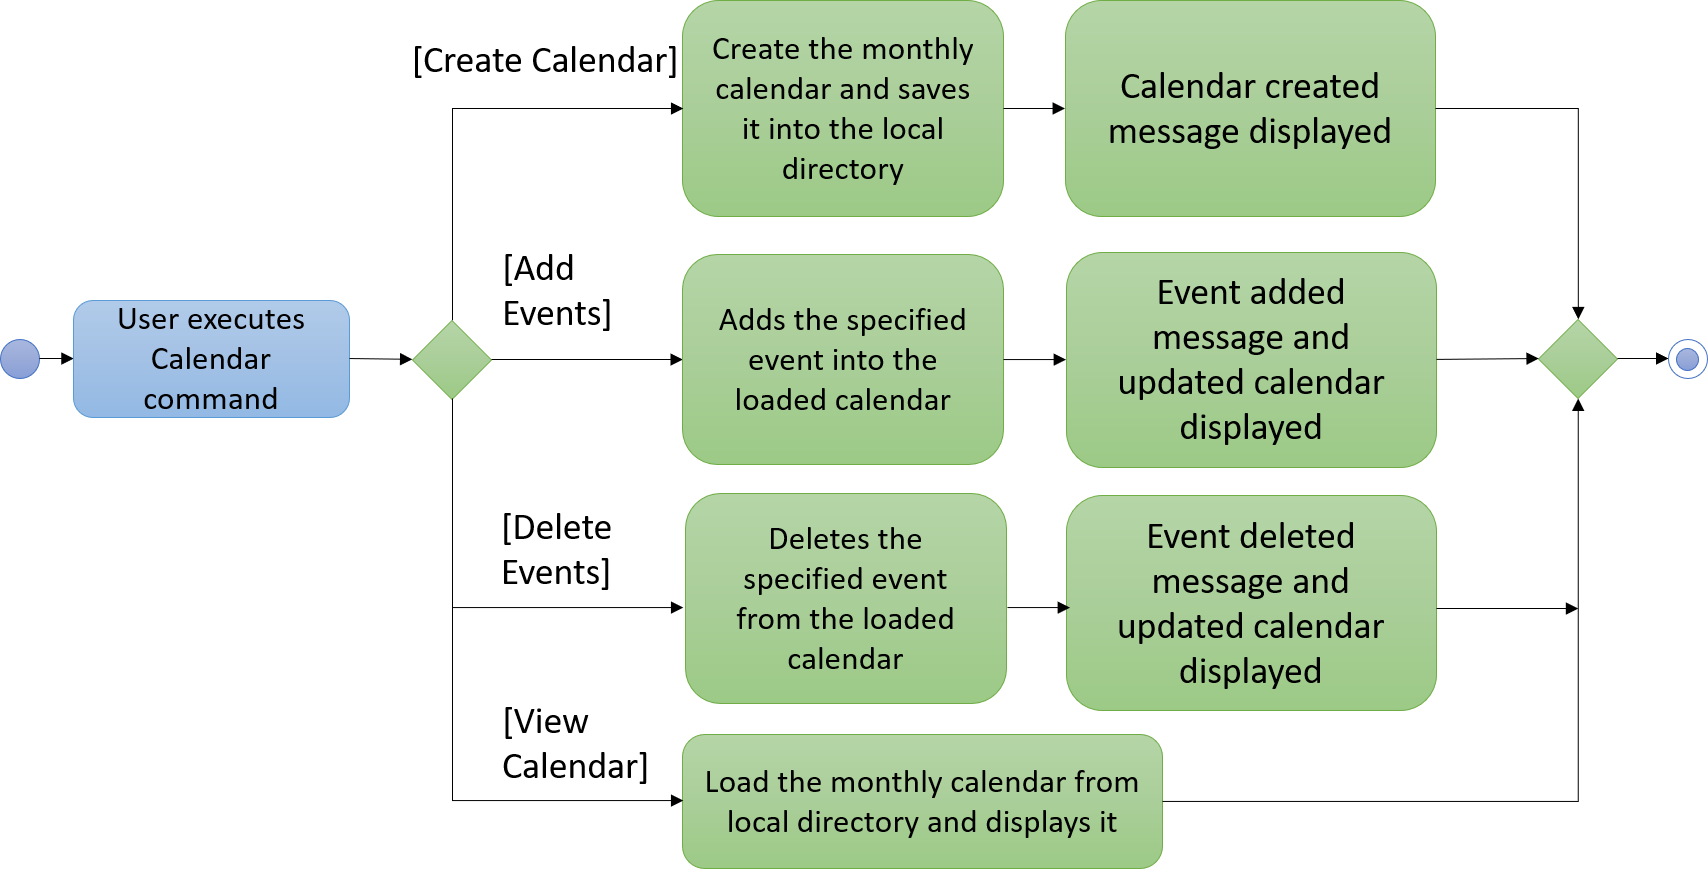
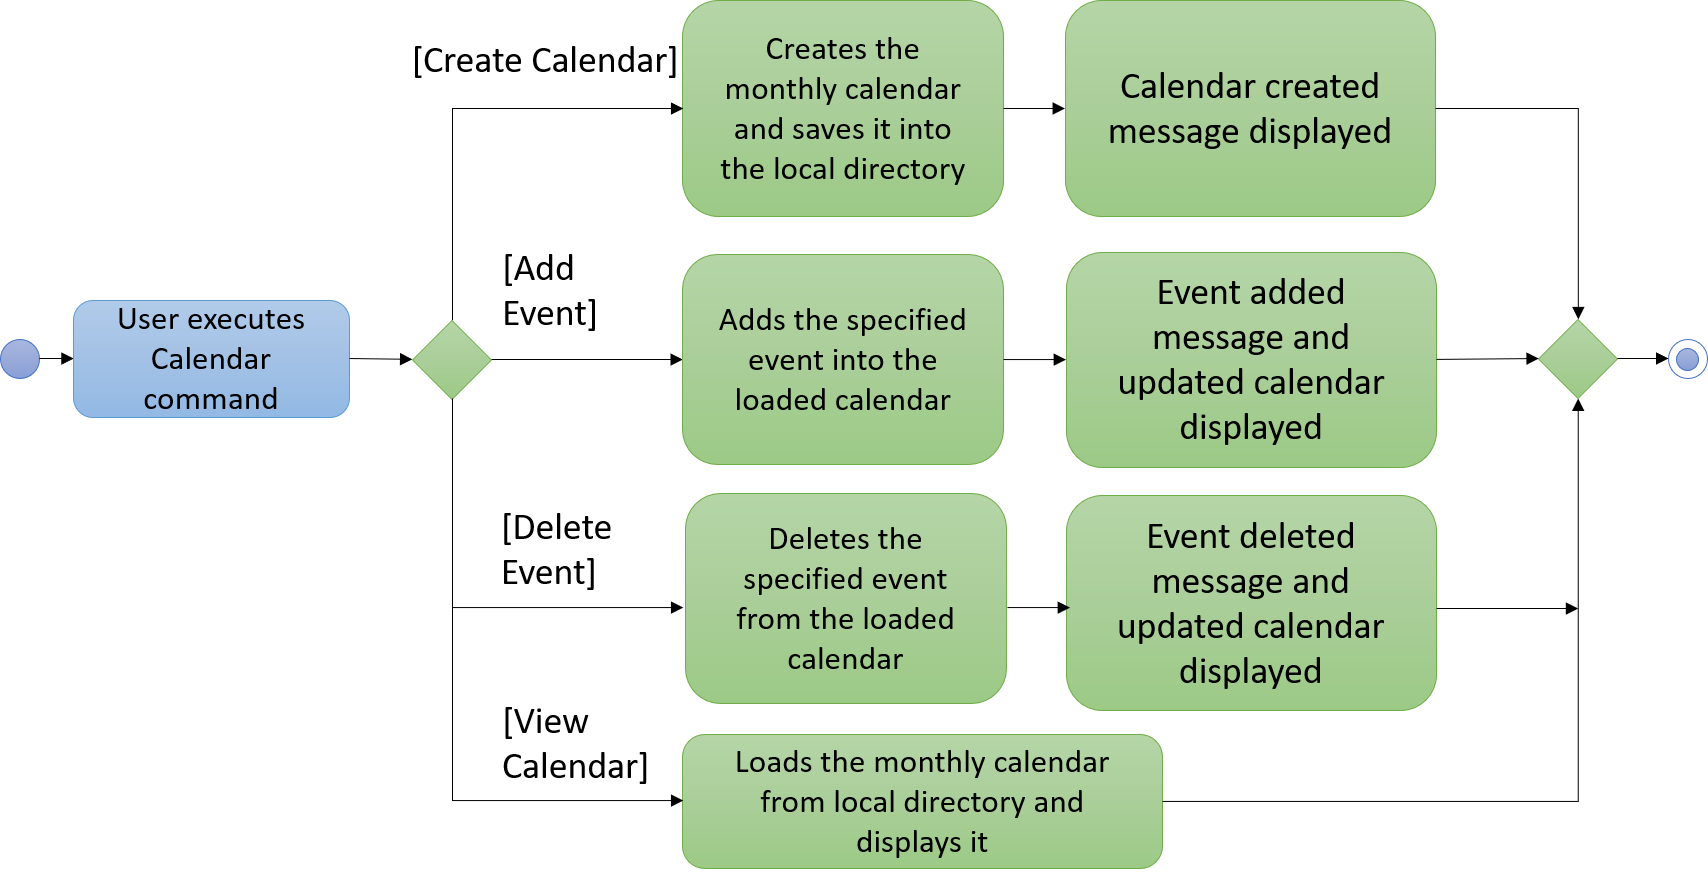
Rebuild pages at f299dc9918a7c7d87d2a5b9993f9ece48c3a12c6

diff --git a/team/gilgameshtc.html b/team/gilgameshtc.html
@@ -15,14 +15,14 @@ requirement for the module CS2103T - Software Engineering, offered in the Nation
 </div>
 <div class="paragraph">
 <p><strong>About Hallper:</strong> Hallper is a desktop application providing administrative convenience. It is catered to the Junior Common Room Committee (JCRC)
-of the halls of NUS, whose main responsibility is to organise and manage all student related activities in hall and look after the welfare of hall residents.
-Users interacts with Hallper using a Command Line Interface (CLI), whilst a Graphic User Interface (GUI) implemented with JavaFX displays the relevant information to the user. Hallper is written
+of the Halls of NUS, whose main responsibility is to organise and manage all student related activities in hall and look out for the welfare of the residents.
+Users interact with Hallper using a Command Line Interface (CLI), whilst a Graphic User Interface (GUI) implemented with JavaFX displays the relevant information to the user. Hallper is written
 in Java and contains approximately 60k lines of code (LoC). Integrated within Hallper is a range of features such as calendar, email and budgeting. Besides that, features such as erase, search and clear from the existing AddressBook Level 4 application
 have been enhanced.</p>
 </div>
 <div class="paragraph">
-<p><strong>My role and contributions:</strong> My contribution to the project is the implementation of the calendar feature and all its relevant commands. The commands that facilitate the calendar feature includes creating calendars, adding events, deleting events and viewing calendars.
-My role in this project is to make sure that the milestones we set collectively as a team are met on time. This includes reviewing the codes of my team members and doing acceptance testing (making sure the feature solves the problem it claims to solve).</p>
+<p><strong>My role and contributions:</strong> My contribution to the project is the implementation of the calendar feature and all its relevant commands. The commands that facilitate the calendar feature include creating calendars, adding events, deleting events and viewing calendars.
+My role in this project is to make sure that the milestones we set collectively are met on time. This includes reviewing the codes of my team members and doing acceptance testing (making sure the feature solves the problem it claims to solve).</p>
 </div>
 </div>
 </div>
@@ -30,7 +30,7 @@ My role in this project is to make sure that the milestones we set collectively 
 <h2 id="2-summary-of-contributions"><a class="link" href="#2-summary-of-contributions">2. Summary of contributions</a></h2>
 <div class="sectionbody">
 <div class="paragraph">
-<p>This section lists the major and minor enhancements I have contributed to the project, Hallper as well as miscellaneous contributions in other aspects of the project.</p>
+<p>This section lists the major and minor enhancements I have contributed to the project, Hallper, as well as miscellaneous contributions in other aspects of the project.</p>
 </div>
 <div class="paragraph">
 <p>I implemented the calendar feature with external libraries,  <a href="https://github.com/ical4j/ical4j">iCal4j</a> and <a href="http://jfxtras.org/">JFxtras</a>.</p>
@@ -48,7 +48,7 @@ My role in this project is to make sure that the milestones we set collectively 
 <p>Justification: This feature improves the product significantly because a JCRC member needs to keep track of the monthly events happening in hall, and a calendar is just the right tool. Being able to keep track of hall events in a calendar also allows the JCRC member to mitigate event date clashes with ease.</p>
 </li>
 <li>
-<p>Highlights: Calendars are created in the file format <code>.ics</code>. This file format is chosen because it is compliant with the RFC 5545 format, which is recognised in the industry. Albeit the implementation of this feature requires an in-depth understanding of the external library <a href="https://github.com/ical4j/ical4j">iCal4j</a>. This is not an issue as the library is widely used and well documented, new developers can easily pick up and extend the current features.</p>
+<p>Highlights: Calendars are created in the file format <code>.ics</code>. This file format is chosen because it is compliant with the RFC 5545 format, which is recognised in the industry. Albeit the implementation of this feature requires an in-depth understanding of the external library <a href="https://github.com/ical4j/ical4j">iCal4j</a>, this is not an issue as the library is widely used and well documented so new developers can easily pick up and extend the current features.</p>
 </li>
 </ul>
 </div>
@@ -61,7 +61,7 @@ My role in this project is to make sure that the milestones we set collectively 
 <p>What it does: This feature allows the user (JCRC member) to view monthly calendars in Hallper by displaying the calendar on the GUI.</p>
 </li>
 <li>
-<p>Justification: This feature improves the user experience as the user can observe changes made on the calendar dynamically. Besides that, the calendar is displayed alongside the command line interface (CLI), eliminating the need to switch between windows. In other words, the user can create, modify and view calendars in Hallper just by typing the keyboard.</p>
+<p>Justification: This feature improves the user experience as the user can observe changes made on the calendar dynamically. Besides that, the calendar is displayed alongside the command line interface (CLI), eliminating the need to switch between windows. In other words, the user can create, modify and view calendars in Hallper just by typing on the keyboard.</p>
 </li>
 <li>
 <p>Highlights: The implementation of this feature requires an in-depth understanding of Java FXML API, JavaFX, XML, <a href="http://jfxtras.org/">JFxtras</a> and how they work together. It was challenging as it required changes to existing commands and interaction with the main window had to be correctly handled.</p>
@@ -307,7 +307,7 @@ It implements the following commands:</p>
 <div class="ulist">
 <ul>
 <li>
-<p><code>create_calendar</code>&#8201;&#8212;&#8201;Creates a monthly calendar and store it in local memory.</p>
+<p><code>create_calendar</code>&#8201;&#8212;&#8201;Creates a monthly calendar and stores it in local memory.</p>
 </li>
 <li>
 <p><code>add_all_day_event</code>&#8201;&#8212;&#8201;Adds an all day event into the monthly calendar specified.</p>
@@ -491,7 +491,7 @@ This saves the updated calendar back to the local directory.</p>
 </div>
 </div>
 <div class="paragraph">
-<p><em>Figure 4.3.1.6: Activity diagram for budget command</em></p>
+<p><em>Figure 4.3.1.6: Activity diagram for calendar commands</em></p>
 </div>
 </div>
 </div>
@@ -524,4 +524,4 @@ The library is widely used and easy to understand so any new developer can easil
 </div>
 </div>
 </div>
-</div></div><div id="footer"><div class="container"><div id="footer-text">Last updated 2018-11-12 11:43:34 UTC</div></div></div></body></html>
+</div></div><div id="footer"><div class="container"><div id="footer-text">Last updated 2018-11-12 12:06:13 UTC</div></div></div></body></html>

diff --git a/DeveloperGuide.html b/DeveloperGuide.html
@@ -1015,7 +1015,7 @@ It implements the following commands:</p>
 <div class="ulist">
 <ul>
 <li>
-<p><code>create_calendar</code>&#8201;&#8212;&#8201;Creates a monthly calendar and store it in local memory.</p>
+<p><code>create_calendar</code>&#8201;&#8212;&#8201;Creates a monthly calendar and stores it in local memory.</p>
 </li>
 <li>
 <p><code>add_all_day_event</code>&#8201;&#8212;&#8201;Adds an all day event into the monthly calendar specified.</p>
@@ -1392,7 +1392,7 @@ This loads the calendar from the specified local directory.</p>
 </div>
 </div>
 <div class="paragraph">
-<p><em>Figure 4.3.1.6: Activity diagram for budget command</em></p>
+<p><em>Figure 4.3.1.6: Activity diagram for calendar commands</em></p>
 </div>
 </div>
 </div>
@@ -5366,4 +5366,4 @@ Expected: Image not copied. Invalid image error message displayed.</p>
 </div>
 </div>
 </div>
-</div></div><div id="footer"><div class="container"><div id="footer-text">Last updated 2018-11-12 11:43:34 UTC</div></div></div></body></html>
+</div></div><div id="footer"><div class="container"><div id="footer-text">Last updated 2018-11-12 12:06:13 UTC</div></div></div></body></html>

diff --git a/team/team.html b/team/team.html
@@ -404,4 +404,4 @@ If the <code>currentStatePointer</code> is at index <code>addressBookStateList.s
 <p><em>{Optionally, you may include other projects in your portfolio.}</em></p>
 </div>
 </div>
-</div></div><div id="footer"><div class="container"><div id="footer-text">Last updated 2018-11-12 11:43:34 UTC</div></div></div></body></html>
+</div></div><div id="footer"><div class="container"><div id="footer-text">Last updated 2018-11-12 12:06:13 UTC</div></div></div></body></html>

diff --git a/team/johndoe.html b/team/johndoe.html
@@ -368,4 +368,4 @@ of parsing large XML files.</p>
 <p><em>{Optionally, you may include other projects in your portfolio.}</em></p>
 </div>
 </div>
-</div></div><div id="footer"><div class="container"><div id="footer-text">Last updated 2018-11-12 11:43:34 UTC</div></div></div></body></html>
+</div></div><div id="footer"><div class="container"><div id="footer-text">Last updated 2018-11-12 12:06:13 UTC</div></div></div></body></html>

diff --git a/ContactUs.html b/ContactUs.html
@@ -12,4 +12,4 @@
 <p><strong>Email us</strong> : You can also reach us at <code>damith [at] comp.nus.edu.sg</code></p>
 </li>
 </ul>
-</div></div><div id="footer"><div class="container"><div id="footer-text">Last updated 2018-11-12 11:43:34 UTC</div></div></div></body></html>
+</div></div><div id="footer"><div class="container"><div id="footer-text">Last updated 2018-11-12 12:06:13 UTC</div></div></div></body></html>

diff --git a/LearningOutcomes.html b/LearningOutcomes.html
@@ -542,4 +542,4 @@ class gives some examples of how to use <em>Equivalence Partitions</em>, <em>Bou
 </div>
 </div>
 </div>
-</div></div><div id="footer"><div class="container"><div id="footer-text">Last updated 2018-11-12 11:43:34 UTC</div></div></div></body></html>
+</div></div><div id="footer"><div class="container"><div id="footer-text">Last updated 2018-11-12 12:06:13 UTC</div></div></div></body></html>

diff --git a/team/eatorbeeaten.html b/team/eatorbeeaten.html
@@ -530,4 +530,4 @@ The library is easy to understand so any new developer can easily extend the cur
 </div>
 </div>
 </div>
-</div></div><div id="footer"><div class="container"><div id="footer-text">Last updated 2018-11-12 11:43:34 UTC</div></div></div></body></html>
+</div></div><div id="footer"><div class="container"><div id="footer-text">Last updated 2018-11-12 12:06:13 UTC</div></div></div></body></html>

diff --git a/UsingGradle.html b/UsingGradle.html
@@ -255,4 +255,4 @@ See <code>build.gradle</code> &#8594; <code>allprojects</code> &#8594; <code>dep
 </ul>
 </div>
 </div>
-</div></div><div id="footer"><div class="container"><div id="footer-text">Last updated 2018-11-12 11:43:34 UTC</div></div></div></body></html>
+</div></div><div id="footer"><div class="container"><div id="footer-text">Last updated 2018-11-12 12:06:13 UTC</div></div></div></body></html>

diff --git a/UsingNetlify.html b/UsingNetlify.html
@@ -123,4 +123,4 @@ The publish directory is the directory in which the built HTML documentation res
 </ol>
 </div>
 </div>
-</div></div><div id="footer"><div class="container"><div id="footer-text">Last updated 2018-11-12 11:43:34 UTC</div></div></div></body></html>
+</div></div><div id="footer"><div class="container"><div id="footer-text">Last updated 2018-11-12 12:06:13 UTC</div></div></div></body></html>

diff --git a/UsingCoveralls.html b/UsingCoveralls.html
@@ -96,4 +96,4 @@ If you have not set up Travis CI, see <a href="UsingTravis.html">UsingTravis.ado
 </ol>
 </div>
 </div>
-</div></div><div id="footer"><div class="container"><div id="footer-text">Last updated 2018-11-12 11:43:34 UTC</div></div></div></body></html>
+</div></div><div id="footer"><div class="container"><div id="footer-text">Last updated 2018-11-12 12:06:13 UTC</div></div></div></body></html>

diff --git a/UsingTravis.html b/UsingTravis.html
@@ -280,4 +280,4 @@ Suggested change: Remove the codacy badge from <code>README</code>.</p>
 </div>
 </div>
 </div>
-</div></div><div id="footer"><div class="container"><div id="footer-text">Last updated 2018-11-12 11:43:34 UTC</div></div></div></body></html>
+</div></div><div id="footer"><div class="container"><div id="footer-text">Last updated 2018-11-12 12:06:13 UTC</div></div></div></body></html>

diff --git a/AboutUs.html b/AboutUs.html
@@ -95,4 +95,4 @@ Responsibilities: In charge of calendar feature</p>
 <hr>
 </div>
 </div>
-</div></div><div id="footer"><div class="container"><div id="footer-text">Last updated 2018-11-12 11:43:34 UTC</div></div></div></body></html>
+</div></div><div id="footer"><div class="container"><div id="footer-text">Last updated 2018-11-12 12:06:13 UTC</div></div></div></body></html>
